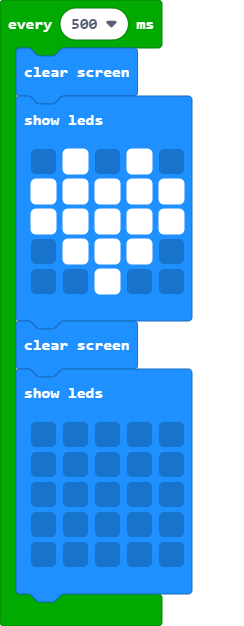
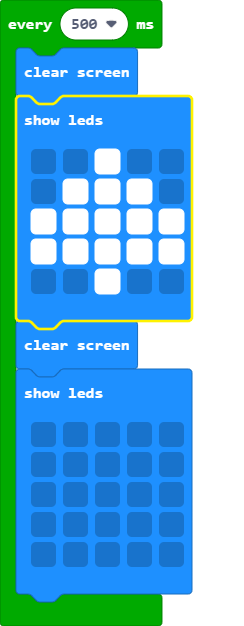
Update pxt.json, main.blocks, main.ts

Changed region(s): [[0.0574, 0.1518, 0.8033, 0.5463], [0.1148, 0.3642, 0.2582, 0.4249], [0.1148, 0.2732, 0.2295, 0.3339]]

diff --git a/main.ts b/main.ts
@@ -1,10 +1,10 @@
 loops.everyInterval(500, function () {
     basic.clearScreen()
     basic.showLeds(`
-        . # . # .
-        # # # # #
-        # # # # #
+        . . # . .
         . # # # .
+        # # # # #
+        # # # # #
         . . # . .
         `)
     basic.clearScreen()
